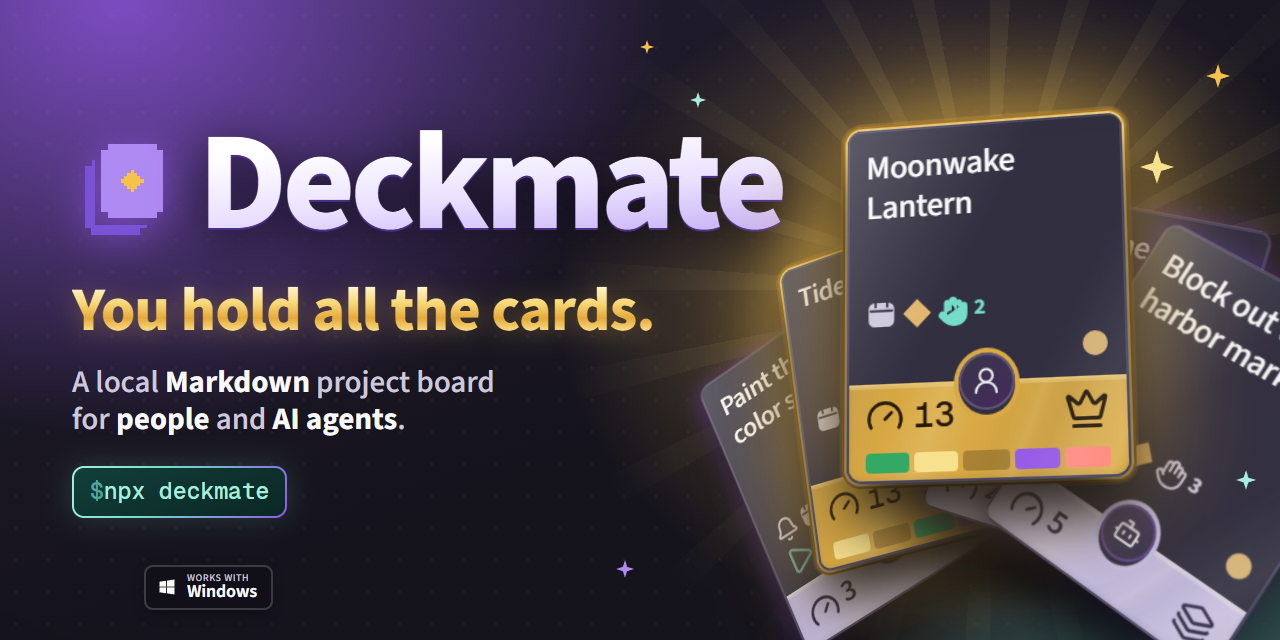
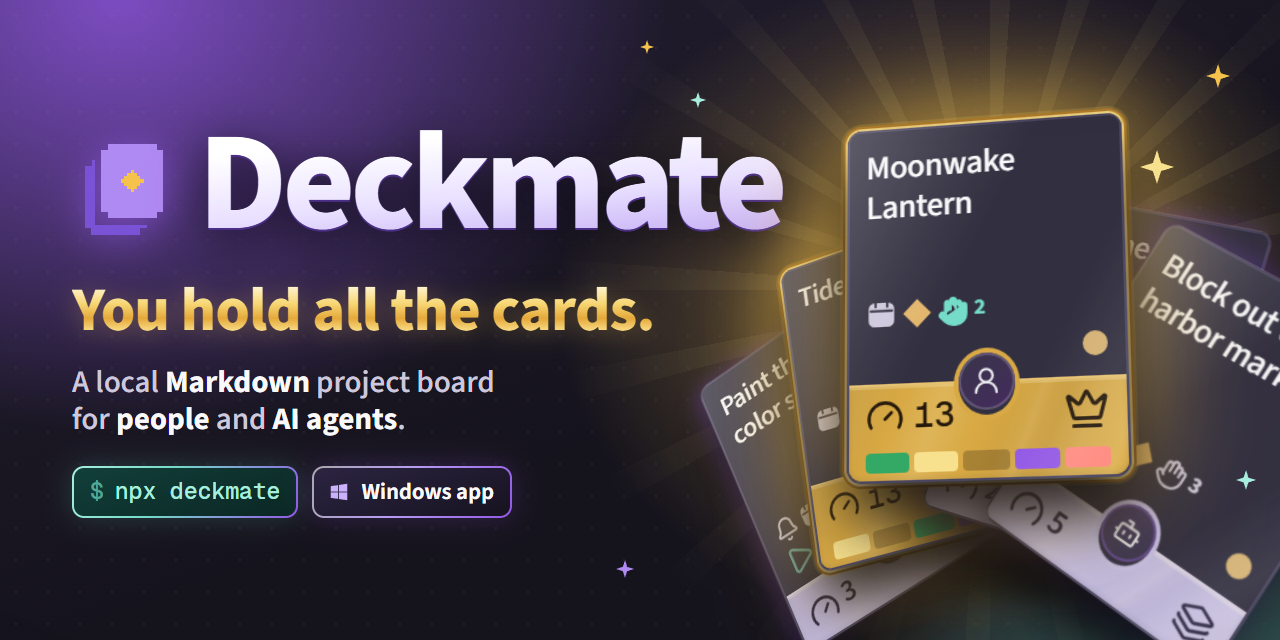
docs: Windows app chip in the social preview, README points to the release (#6)
* docs: Windows app chip in the social preview, README points to the release

The social preview keeps the fanned hand of cards and moves Windows from a
corner store badge into the row with `$ npx deckmate`, as a chip of the same
shape, so a macOS chip can join it later. The CLI plate printed $npx: a
trailing space in generated content collapses inside inline-flex, so the gap
is a margin now.

README (EN/RU) no longer says the installer is unpublished: it links to the
latest release with the installer and the portable zip, and the status line
says 0.2.

* docs: README matches the 0.2.0 desktop release

Quick start now names the supported Windows versions, how to get past the
SmartScreen warning for the unsigned build and how to start the portable zip.
The "if npx cannot find the package" fallback is gone: deckmate is on npm;
running from source stays as an option. The start screen screenshot is
recaptured so its footer shows 0.2.0 (the launcher's preview mock reported
0.1.0).

---------

Changed region(s): [[0.0625, 0.7188, 0.4062, 0.8125], [0.125, 0.875, 0.2188, 0.9375]]

diff --git a/docs/social-preview.html b/docs/social-preview.html
@@ -34,19 +34,18 @@
       filter: drop-shadow(0 3px 12px #e5b65055); }
     .tagline { margin: 22px 0 28px; color: var(--muted); font-size: 31px; font-weight: 550; line-height: 1.2; }
     .tagline b { color: var(--ink); font-weight: 700; }
-    /* 2026-11-08: the CLI plate stays in the row for agents; the Windows badge sits in the corner like a store badge. */
-    .badges { display: flex; align-items: center; gap: 12px; }
+    /* 2026-11-08: ways to run Deckmate sit in one row: the CLI plate, then one chip per desktop platform
+       (Windows today; a macOS chip joins the row later). The chips share the plate's shape and size. */
+    .badges { display: flex; align-items: center; gap: 14px; }
     .badge { display: inline-flex; align-items: center; padding: 10px 16px; border: 2px solid transparent; border-radius: 12px; line-height: 1.2; }
-    /* The store-badge convention: logo on the left, a small line above a large one; readers know it without reading. */
-    .badge-app { position: absolute; left: 72px; bottom: 30px; gap: 10px; padding: 6px 14px 6px 11px; border-radius: 9px;
-      background: #111018; border-color: #ffffff2e; color: var(--ink); box-shadow: 0 4px 18px #0a081266; }
-    .badge-app svg { width: 20px; height: 20px; fill: currentColor; flex: none; }
-    .badge-app .lines { display: flex; flex-direction: column; line-height: 1.05; }
-    .badge-app small { font-size: 10px; font-weight: 500; letter-spacing: .06em; text-transform: uppercase; color: var(--muted); }
-    .badge-app strong { font-size: 18px; font-weight: 650; letter-spacing: -.01em; }
+    .badge-app { gap: 11px; padding-left: 14px;
+      background: linear-gradient(160deg, #2c2442, #16131f) padding-box, linear-gradient(120deg, #ffffffa0, #b79cf2 45%, #9258e5) border-box;
+      color: var(--ink); font: 650 23px/1.2 "Source Sans 3", sans-serif; letter-spacing: -.005em; box-shadow: 0 0 28px #9258e540; }
+    .badge-app svg { width: 22px; height: 22px; fill: #c9b2fb; flex: none; }
     code { background: linear-gradient(160deg, #123f3a, #0b2724) padding-box, linear-gradient(120deg, #a8eedf, #74dcc8 40%, #9258e5) border-box;
       color: var(--mint); font: 500 23px/1.2 "Geist Mono", monospace; box-shadow: 0 0 28px #74dcc833; }
-    code::before { content: "$ "; color: #74dcc8aa; }
+    /* A trailing space in generated content collapses inside inline-flex (it printed "$npx"), so the gap is a margin. */
+    code::before { content: "$"; margin-right: 11px; color: #74dcc8aa; }
     .cards { position: absolute; left: 700px; top: 70px; width: 580px; height: 540px; perspective: 1300px; }
     .fan { position: absolute; inset: 0; transform-style: preserve-3d; transform: rotateX(16deg) rotateY(-22deg) rotateZ(4deg) scale(1.14); }
     /* A soft floor shadow anchors the floating hand. */
@@ -84,8 +83,8 @@
       <p class="tagline">A local <b>Markdown</b> project board<br>for <b>people</b> and <b>AI agents</b>.</p>
       <div class="badges">
         <code class="badge">npx deckmate</code>
+        <span class="badge badge-app"><svg viewBox="0 0 24 24" aria-hidden="true"><path d="M3 5.6 11 4.5v7.1H3zM12 4.3 21 3v8.6h-9zM3 12.4h8v7.1L3 18.4zM12 12.4h9V21l-9-1.3z"/></svg>Windows app</span>
       </div>
-      <span class="badge badge-app"><svg viewBox="0 0 24 24" aria-hidden="true"><path d="M3 5.6 11 4.5v7.1H3zM12 4.3 21 3v8.6h-9zM3 12.4h8v7.1L3 18.4zM12 12.4h9V21l-9-1.3z"/></svg><span class="lines"><small>Works with</small><strong>Windows</strong></span></span>
     </section>
     <div class="cards" aria-label="Five real cards from the sample project, fanned like a hand">
       <div class="floor"></div>

diff --git a/desktop/launcher/launcher.js b/desktop/launcher/launcher.js
@@ -319,7 +319,7 @@ function mockBridge() {
     { path: 'C:\\Users\\Someone\\Documents\\Долгий путь к релизу', name: 'Долгий путь к релизу', lastOpened: new Date(now - 3 * 86400e3).toISOString() },
   ];
   return {
-    async getState() { return { recent, lastProject: recent[0].path, version: '0.1.0', deckmateVersion: '0.1.0', locale: 'en-US' }; },
+    async getState() { return { recent, lastProject: recent[0].path, version: '0.2.0', deckmateVersion: '0.2.0', locale: 'en-US' }; },
     async chooseFolder() { return 'D:\\Projects\\New Deck'; },
     async openProject() { await new Promise(resolve => setTimeout(resolve, 1200)); return { ok: false, code: 'missing' }; },
     async createProject() { await new Promise(resolve => setTimeout(resolve, 900)); return { ok: false, code: 'not-empty' }; },

diff --git a/README.md b/README.md
@@ -12,7 +12,7 @@
 
 A local Markdown project board for teams of people and AI agents.
 
-**Status:** 0.1, an early release. The project file format (schema 1) may change before 1.0.
+**Status:** 0.2, an early release. The project file format (schema 1) may change before 1.0.
 
 [![npm](https://img.shields.io/npm/v/deckmate?color=7a52d6)](https://www.npmjs.com/package/deckmate)
 [![License: AGPL-3.0](docs/badges/license.svg)](LICENSE)
@@ -37,9 +37,9 @@ Deckmate turns a folder of Markdown files into a project board for game and soft
 
 ### Desktop
 
-Deckmate Desktop is an Electron app for Windows; macOS support is planned later. The prototype is in preparation and the installer is not published yet; it will appear on the [Releases page](https://github.com/pierkulakov/deckmate/releases). Windows will warn about an unknown publisher because the build is not code-signed.
+Deckmate Desktop is an Electron app for Windows 10 and 11 (x64); macOS support is planned later. Download the installer (`Deckmate Setup <version>.exe`) or the portable zip from the [latest release](https://github.com/pierkulakov/deckmate/releases/latest). The build is not code-signed, so Windows SmartScreen warns about an unknown publisher: choose **More info → Run anyway**.
 
-Once available, download and run the installer, launch Deckmate from its icon, then open an existing project folder or create a project in an empty folder. You do not need to install Node.js or open a terminal.
+Run the installer and launch Deckmate from its icon, or unzip the portable build and start `Deckmate.exe`. Then open an existing project folder or create a project in an empty folder. You do not need to install Node.js or open a terminal.
 
 ### CLI
 
@@ -50,7 +50,7 @@ npx deckmate init deckmate-demo
 npx deckmate --data deckmate-demo
 ```
 
-If `npx` cannot find the package yet, follow [CONTRIBUTING.md](CONTRIBUTING.md) and run from source: `npm ci && npm run build`, then `node bin/deckmate.mjs init deckmate-demo` creates the demo and `node bin/deckmate.mjs --data deckmate-demo` opens it.
+To run from source instead, follow [CONTRIBUTING.md](CONTRIBUTING.md): `npm ci && npm run build`, then `node bin/deckmate.mjs init deckmate-demo` creates the demo and `node bin/deckmate.mjs --data deckmate-demo` opens it.
 
 The board opens at `http://127.0.0.1:4317/`. The sample is a small fictional game studio: five decks, two Heroes with Sub Cards, people and agents, a Journey, a Run and a Vision board. The interface is English by default; switch to Russian in the app menu. Stop the server with `Ctrl+C`.
 
